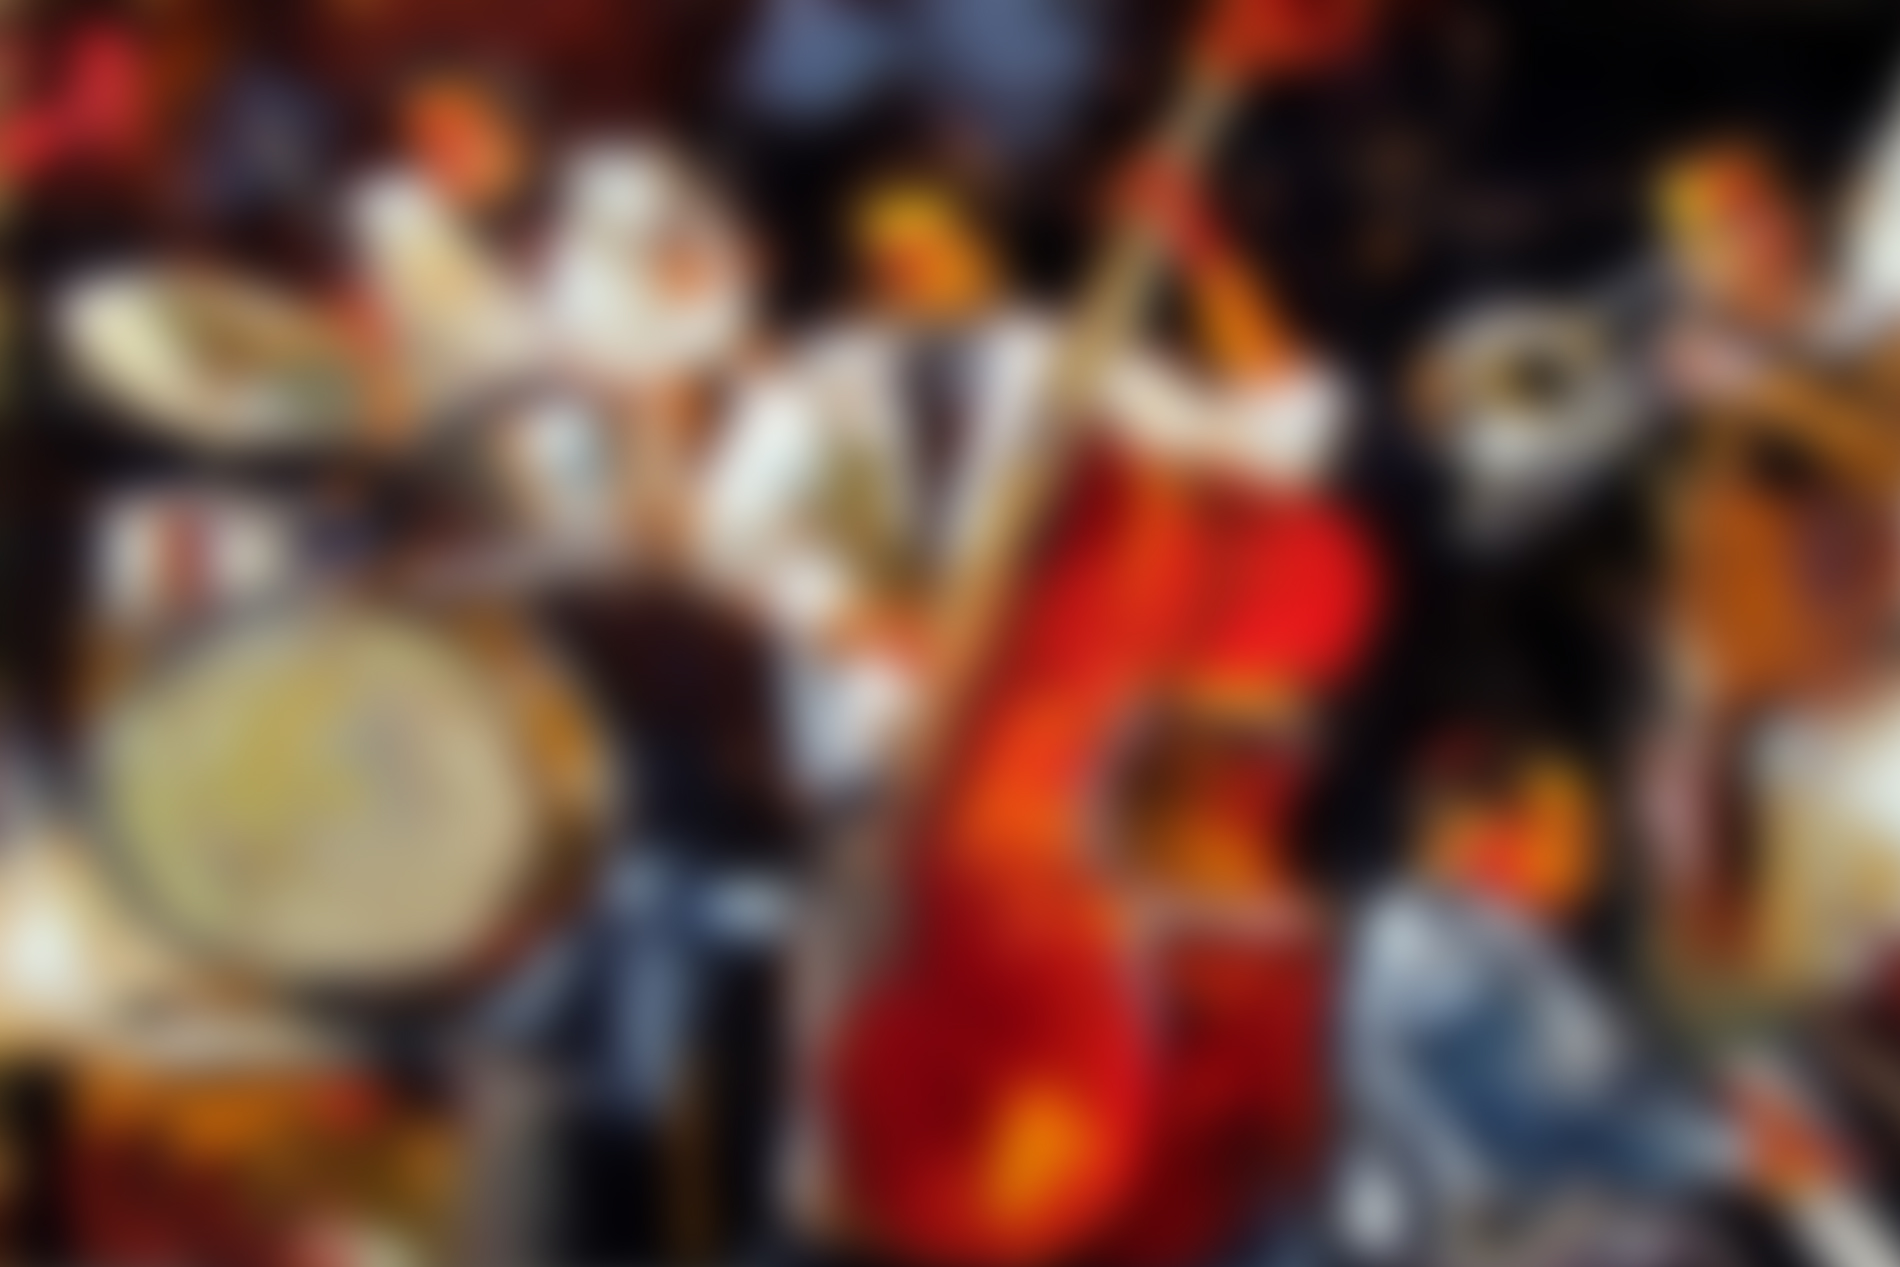
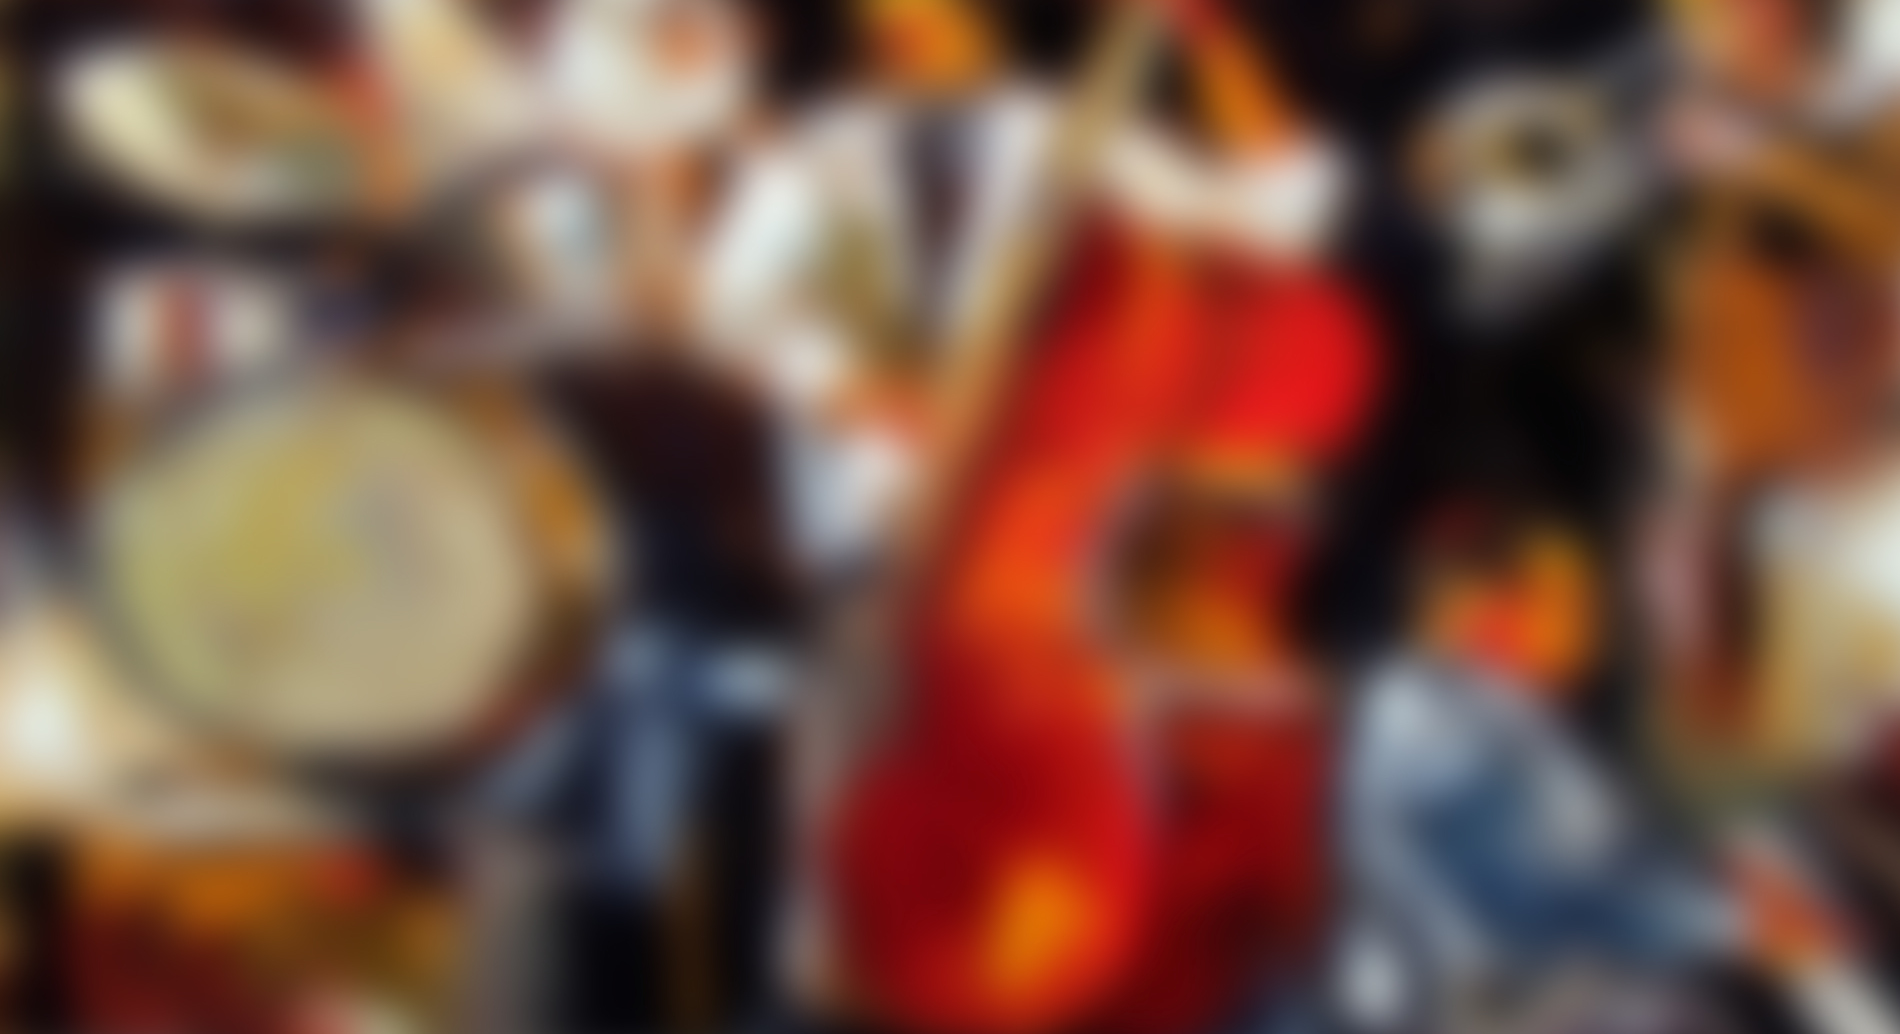
swapped out background

diff --git a/Web/public/css/app.css b/Web/public/css/app.css
@@ -7,6 +7,7 @@ body {
   margin-bottom: 0px;
   padding: 0px;
   background-color: #ECF0F1;
+  
 
   font-family: 'Josefin Sans', sans-serif;
   
@@ -84,13 +85,23 @@ h1{
 }
 
 /*Intro*/
-#intro{
+#tempBack {
+
+  z-index:10;
+  background-image: url('/img/intro-bg.jpg');  
   width: 100%;
   height: 700px;
   margin: 0;
   padding: 0;
-  background-image: url('/img/background-banner.png');
-  
+}
+#intro{
+  z-index: 20
+  width: 100%;
+  height: 700px;
+  margin: 0;
+  padding: 0;
+  background-image: url('/img/intro-bg-glued.jpg');
+  background-size: cover;  
 }
 
 #subtext
@@ -109,6 +120,7 @@ h1{
   width: 80%;
   opacity: .9;
   margin: 0 auto;
+
 
 }
 
@@ -194,6 +206,9 @@ h1{
   height: 700px;
 }
 
+#team p{
+  font-size: 1.1em;
+}
 
 #team h2:before{
   
